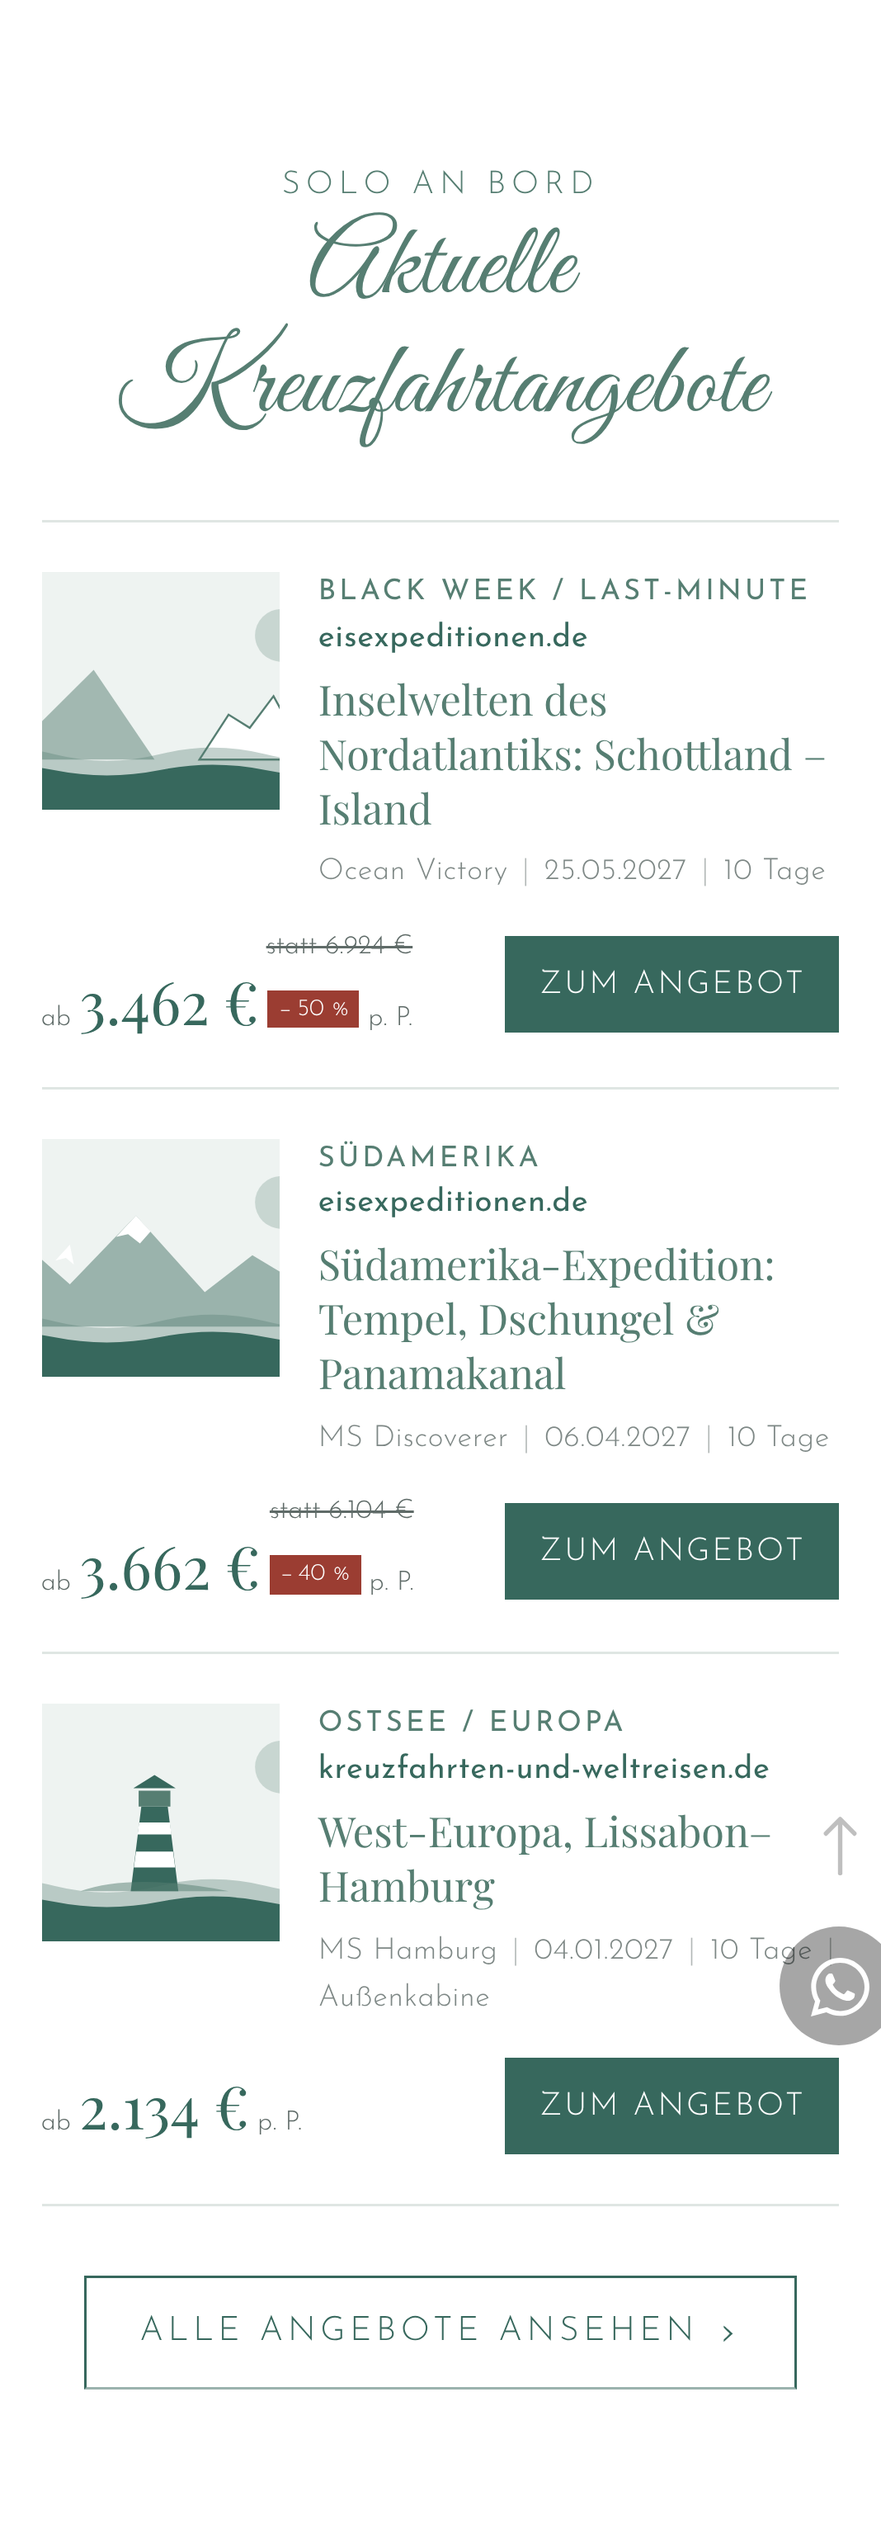
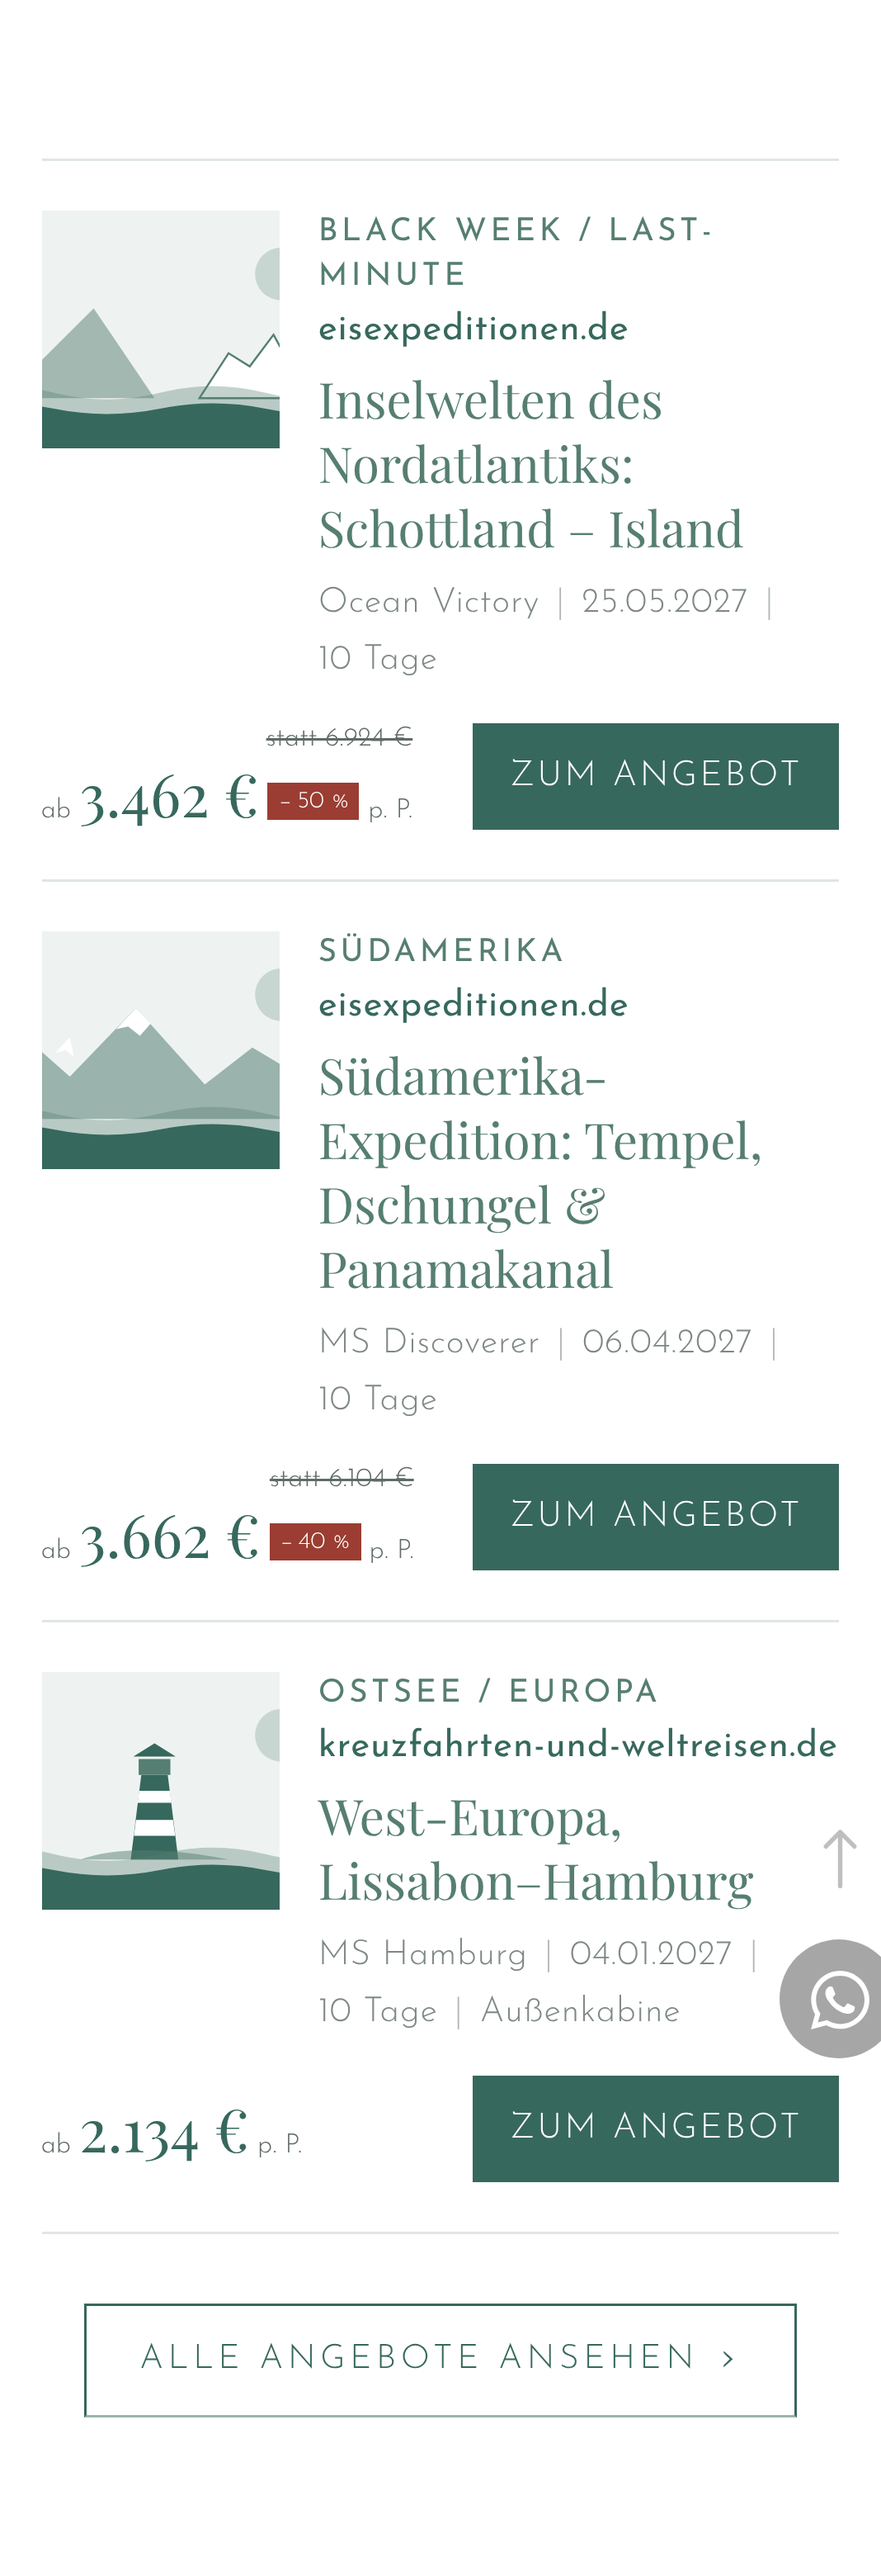
Widget: größere Schrift in den Angeboten
Claude-Session: https://claude.ai/code/session_012YizkaaRLLKAJefRRsS6QJ

Changed region(s): [[0.0309, 0.0622, 1.0, 0.8707], [0.4326, 0.9018, 0.4635, 0.9329]]

diff --git a/kreuzfahrt-widget.js b/kreuzfahrt-widget.js
@@ -107,20 +107,20 @@
     ".kfw .kfw-logo img{width:28px;height:28px;object-fit:contain;margin:0;opacity:.9}" +
     ".kfw-mono{display:flex;align-items:center;justify-content:center;width:28px;height:28px;border:1px solid var(--kfw-gruen);font-family:var(--kfw-titel);font-size:15px;color:var(--kfw-gruen);line-height:1}" +
     ".kfw-oben-name{flex-direction:column;align-items:flex-start;gap:.15em}" +
-    ".kfw-anbieter{color:var(--kfw-gruen);font-size:.8em;font-weight:400;letter-spacing:.02em;line-height:1.3}" +
-    ".kfw-kat{line-height:1.4;font-size:.72em;font-weight:400;text-transform:uppercase;letter-spacing:.12em;color:var(--kfw-gruen-hell);margin:0}" +
-    ".kfw .kfw-titel{font-family:var(--kfw-titel);font-size:1.45em;font-weight:400;line-height:1.3;color:var(--kfw-gruen);margin:0 0 .75em;padding:0}" +
-    ".kfw .kfw-daten{margin:0 0 1em;font-size:12px!important;font-weight:300;line-height:1.6;color:var(--kfw-grau);opacity:.8;letter-spacing:.02em}" +
+    ".kfw-anbieter{color:var(--kfw-gruen);font-size:.92em;font-weight:400;letter-spacing:.02em;line-height:1.3}" +
+    ".kfw-kat{line-height:1.4;font-size:.8em;font-weight:400;text-transform:uppercase;letter-spacing:.12em;color:var(--kfw-gruen-hell);margin:0}" +
+    ".kfw .kfw-titel{font-family:var(--kfw-titel);font-size:1.6em;font-weight:400;line-height:1.3;color:var(--kfw-gruen);margin:0 0 .75em;padding:0}" +
+    ".kfw .kfw-daten{margin:0 0 1em;font-size:14px!important;font-weight:300;line-height:1.6;color:var(--kfw-grau);opacity:.8;letter-spacing:.02em}" +
     ".kfw-trenner{margin:0 .15em;opacity:.6}" +
     ".kfw-wert{white-space:nowrap}" +
-    ".kfw .kfw-notiz{font-weight:300;font-size:15px!important;line-height:1.45;color:var(--kfw-grau);font-style:normal;margin:0 0 1em}" +
+    ".kfw .kfw-notiz{font-weight:300;font-size:16.5px!important;line-height:1.45;color:var(--kfw-grau);font-style:normal;margin:0 0 1em}" +
     ".kfw-fuss{margin-top:auto;padding-top:.9em;border-top:1px solid var(--kfw-rand);display:flex;align-items:flex-end;justify-content:space-between;gap:.75em;flex-wrap:wrap}" +
     ".kfw-preis{font-family:var(--kfw-titel);font-size:1.8em;color:var(--kfw-gruen);line-height:1.2}" +
     ".kfw-preis small{font-family:var(--kfw-schrift);font-size:.45em;color:var(--kfw-grau)}" +
     ".kfw-alt{display:block;font-family:var(--kfw-schrift);font-size:.45em;color:var(--kfw-grau);text-decoration:line-through}" +
     ".kfw-rabatt{display:inline-block;background:var(--kfw-rot);color:#fff;font-family:var(--kfw-schrift);font-size:.4em;padding:.2em .45em;margin-left:.4em;vertical-align:middle}" +
     ".kfw .kfw-link{display:inline-block;padding:.75em 1.3em;background:var(--kfw-gruen);border:1px solid var(--kfw-gruen);color:#fff!important;text-decoration:none!important;" +
-    "font-family:var(--kfw-titel);font-size:.8em;text-transform:uppercase;letter-spacing:.08em;white-space:nowrap;transition:background .15s,color .15s}" +
+    "font-family:var(--kfw-titel);font-size:.88em;text-transform:uppercase;letter-spacing:.08em;white-space:nowrap;transition:background .15s,color .15s}" +
     ".kfw .kfw-link:hover{background:#fff;color:var(--kfw-gruen)!important}" +
     ".kfw-hinweis{font-size:.8em;color:var(--kfw-grau);margin-top:1.25em}" +
     ".kfw-leer,.kfw-fehler{padding:1em;border:1px dashed var(--kfw-rand);color:var(--kfw-grau);background:#fff}" +
@@ -135,7 +135,7 @@
     ".kfw-t-drei{grid-template-columns:repeat(auto-fit,minmax(240px,1fr))}" +
     ".kfw-zeile{display:grid;grid-template-columns:150px 1fr auto;gap:1.25em;align-items:center;background:#fff}" +
     ".kfw-zeile .kfw-bild{margin:0;aspect-ratio:3/2}" +
-    ".kfw-zeile .kfw-titel{font-size:1.2em;margin:0 0 .35em}" +
+    ".kfw-zeile .kfw-titel{font-size:1.5em;margin:0 0 .35em}" +
     ".kfw-zeile .kfw-daten{margin:0}" +
     ".kfw-zeile .kfw-oben{margin-bottom:.35em}" +
     ".kfw-zeile-preis{display:flex;flex-direction:column;align-items:flex-end;gap:.6em;text-align:right}" +
@@ -152,7 +152,7 @@
     ".kfw-t-rechts .kfw-zeile{padding:.9em;grid-template-columns:120px 1fr auto}" +
     ".kfw-preis{white-space:nowrap}" +
     "@media (max-width:760px){.kfw-zeile,.kfw-t-rechts .kfw-zeile{grid-template-columns:96px 1fr;gap:.9em 1em;align-items:start}" +
-    ".kfw-zeile .kfw-bild{aspect-ratio:1/1}.kfw-zeile .kfw-titel{font-size:1.05em}" +
+    ".kfw-zeile .kfw-bild{aspect-ratio:1/1}.kfw-zeile .kfw-titel{font-size:1.25em}" +
     ".kfw-zeile-preis{grid-column:1/-1;flex-direction:row;flex-wrap:wrap;justify-content:space-between;align-items:center;gap:.6em;min-width:0}" +
     ".kfw-zeile .kfw-preis{font-size:1.5em}.kfw .kfw-zeile .kfw-link{padding:.7em 1em}" +
     ".kfw-t-buehne{grid-template-columns:1fr;padding:1.5em}}" +

diff --git a/widget/kreuzfahrt-widget.js b/widget/kreuzfahrt-widget.js
@@ -107,20 +107,20 @@
     ".kfw .kfw-logo img{width:28px;height:28px;object-fit:contain;margin:0;opacity:.9}" +
     ".kfw-mono{display:flex;align-items:center;justify-content:center;width:28px;height:28px;border:1px solid var(--kfw-gruen);font-family:var(--kfw-titel);font-size:15px;color:var(--kfw-gruen);line-height:1}" +
     ".kfw-oben-name{flex-direction:column;align-items:flex-start;gap:.15em}" +
-    ".kfw-anbieter{color:var(--kfw-gruen);font-size:.8em;font-weight:400;letter-spacing:.02em;line-height:1.3}" +
-    ".kfw-kat{line-height:1.4;font-size:.72em;font-weight:400;text-transform:uppercase;letter-spacing:.12em;color:var(--kfw-gruen-hell);margin:0}" +
-    ".kfw .kfw-titel{font-family:var(--kfw-titel);font-size:1.45em;font-weight:400;line-height:1.3;color:var(--kfw-gruen);margin:0 0 .75em;padding:0}" +
-    ".kfw .kfw-daten{margin:0 0 1em;font-size:12px!important;font-weight:300;line-height:1.6;color:var(--kfw-grau);opacity:.8;letter-spacing:.02em}" +
+    ".kfw-anbieter{color:var(--kfw-gruen);font-size:.92em;font-weight:400;letter-spacing:.02em;line-height:1.3}" +
+    ".kfw-kat{line-height:1.4;font-size:.8em;font-weight:400;text-transform:uppercase;letter-spacing:.12em;color:var(--kfw-gruen-hell);margin:0}" +
+    ".kfw .kfw-titel{font-family:var(--kfw-titel);font-size:1.6em;font-weight:400;line-height:1.3;color:var(--kfw-gruen);margin:0 0 .75em;padding:0}" +
+    ".kfw .kfw-daten{margin:0 0 1em;font-size:14px!important;font-weight:300;line-height:1.6;color:var(--kfw-grau);opacity:.8;letter-spacing:.02em}" +
     ".kfw-trenner{margin:0 .15em;opacity:.6}" +
     ".kfw-wert{white-space:nowrap}" +
-    ".kfw .kfw-notiz{font-weight:300;font-size:15px!important;line-height:1.45;color:var(--kfw-grau);font-style:normal;margin:0 0 1em}" +
+    ".kfw .kfw-notiz{font-weight:300;font-size:16.5px!important;line-height:1.45;color:var(--kfw-grau);font-style:normal;margin:0 0 1em}" +
     ".kfw-fuss{margin-top:auto;padding-top:.9em;border-top:1px solid var(--kfw-rand);display:flex;align-items:flex-end;justify-content:space-between;gap:.75em;flex-wrap:wrap}" +
     ".kfw-preis{font-family:var(--kfw-titel);font-size:1.8em;color:var(--kfw-gruen);line-height:1.2}" +
     ".kfw-preis small{font-family:var(--kfw-schrift);font-size:.45em;color:var(--kfw-grau)}" +
     ".kfw-alt{display:block;font-family:var(--kfw-schrift);font-size:.45em;color:var(--kfw-grau);text-decoration:line-through}" +
     ".kfw-rabatt{display:inline-block;background:var(--kfw-rot);color:#fff;font-family:var(--kfw-schrift);font-size:.4em;padding:.2em .45em;margin-left:.4em;vertical-align:middle}" +
     ".kfw .kfw-link{display:inline-block;padding:.75em 1.3em;background:var(--kfw-gruen);border:1px solid var(--kfw-gruen);color:#fff!important;text-decoration:none!important;" +
-    "font-family:var(--kfw-titel);font-size:.8em;text-transform:uppercase;letter-spacing:.08em;white-space:nowrap;transition:background .15s,color .15s}" +
+    "font-family:var(--kfw-titel);font-size:.88em;text-transform:uppercase;letter-spacing:.08em;white-space:nowrap;transition:background .15s,color .15s}" +
     ".kfw .kfw-link:hover{background:#fff;color:var(--kfw-gruen)!important}" +
     ".kfw-hinweis{font-size:.8em;color:var(--kfw-grau);margin-top:1.25em}" +
     ".kfw-leer,.kfw-fehler{padding:1em;border:1px dashed var(--kfw-rand);color:var(--kfw-grau);background:#fff}" +
@@ -135,7 +135,7 @@
     ".kfw-t-drei{grid-template-columns:repeat(auto-fit,minmax(240px,1fr))}" +
     ".kfw-zeile{display:grid;grid-template-columns:150px 1fr auto;gap:1.25em;align-items:center;background:#fff}" +
     ".kfw-zeile .kfw-bild{margin:0;aspect-ratio:3/2}" +
-    ".kfw-zeile .kfw-titel{font-size:1.2em;margin:0 0 .35em}" +
+    ".kfw-zeile .kfw-titel{font-size:1.5em;margin:0 0 .35em}" +
     ".kfw-zeile .kfw-daten{margin:0}" +
     ".kfw-zeile .kfw-oben{margin-bottom:.35em}" +
     ".kfw-zeile-preis{display:flex;flex-direction:column;align-items:flex-end;gap:.6em;text-align:right}" +
@@ -152,7 +152,7 @@
     ".kfw-t-rechts .kfw-zeile{padding:.9em;grid-template-columns:120px 1fr auto}" +
     ".kfw-preis{white-space:nowrap}" +
     "@media (max-width:760px){.kfw-zeile,.kfw-t-rechts .kfw-zeile{grid-template-columns:96px 1fr;gap:.9em 1em;align-items:start}" +
-    ".kfw-zeile .kfw-bild{aspect-ratio:1/1}.kfw-zeile .kfw-titel{font-size:1.05em}" +
+    ".kfw-zeile .kfw-bild{aspect-ratio:1/1}.kfw-zeile .kfw-titel{font-size:1.25em}" +
     ".kfw-zeile-preis{grid-column:1/-1;flex-direction:row;flex-wrap:wrap;justify-content:space-between;align-items:center;gap:.6em;min-width:0}" +
     ".kfw-zeile .kfw-preis{font-size:1.5em}.kfw .kfw-zeile .kfw-link{padding:.7em 1em}" +
     ".kfw-t-buehne{grid-template-columns:1fr;padding:1.5em}}" +
